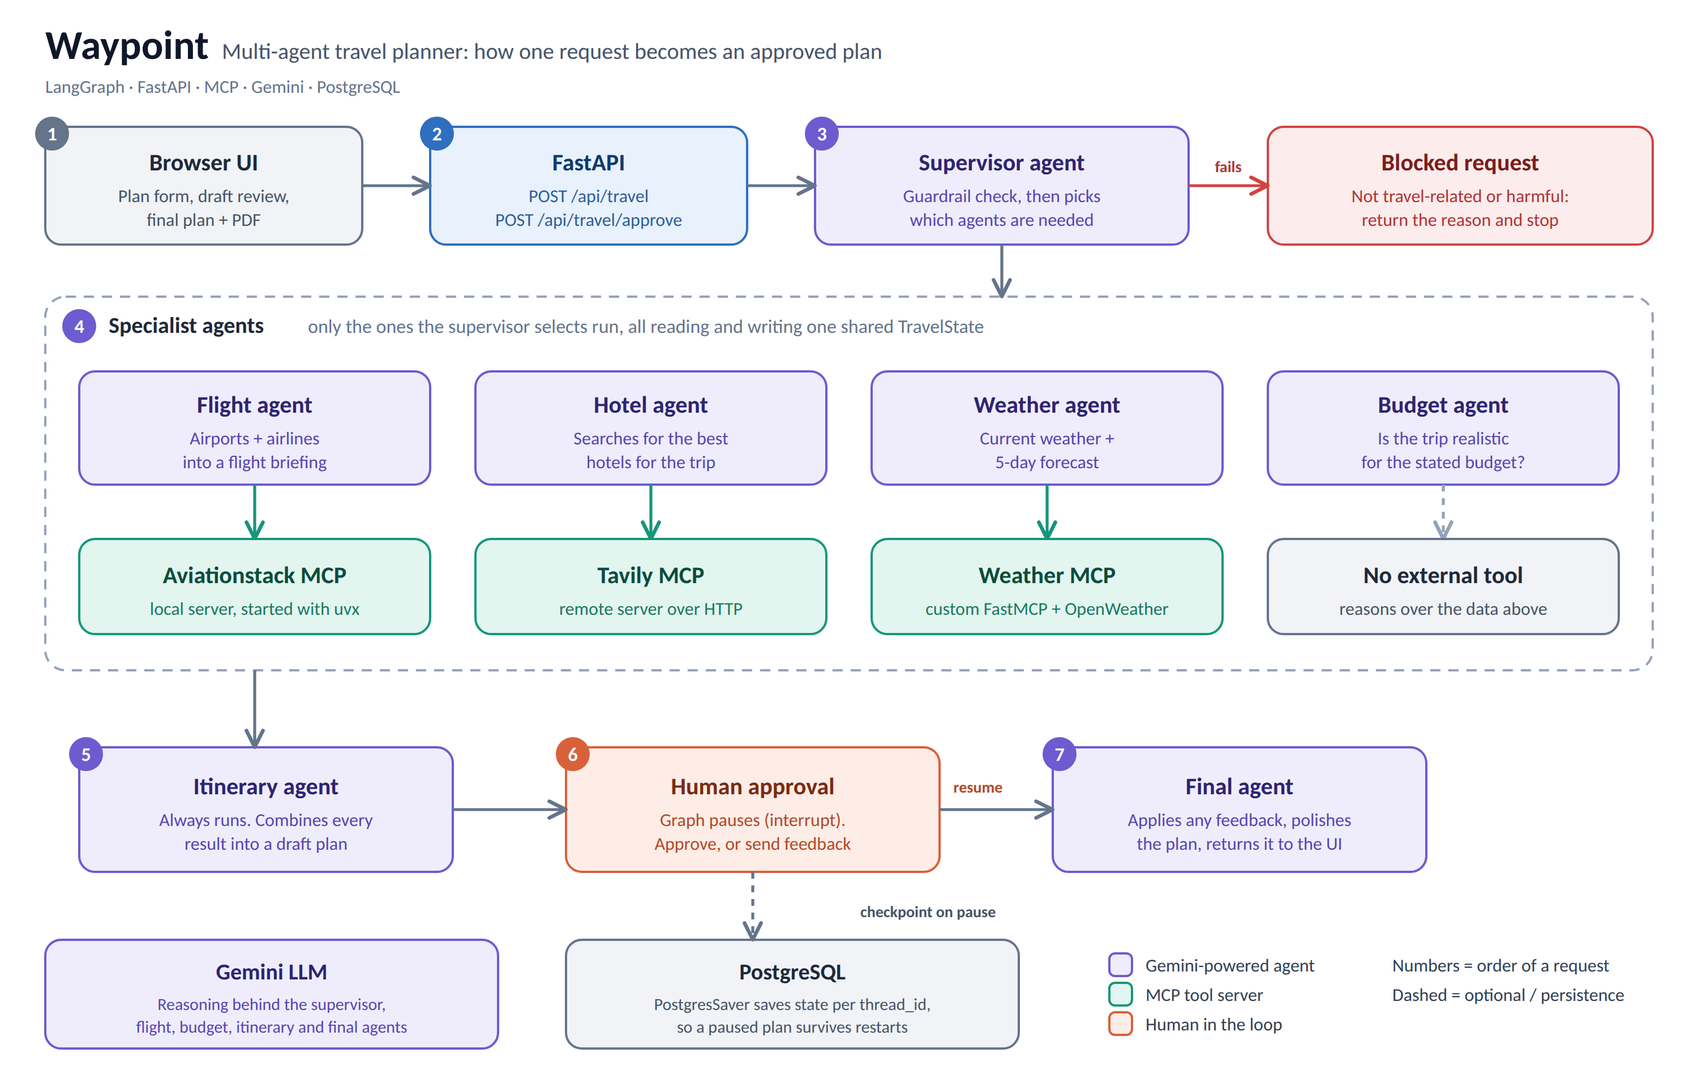
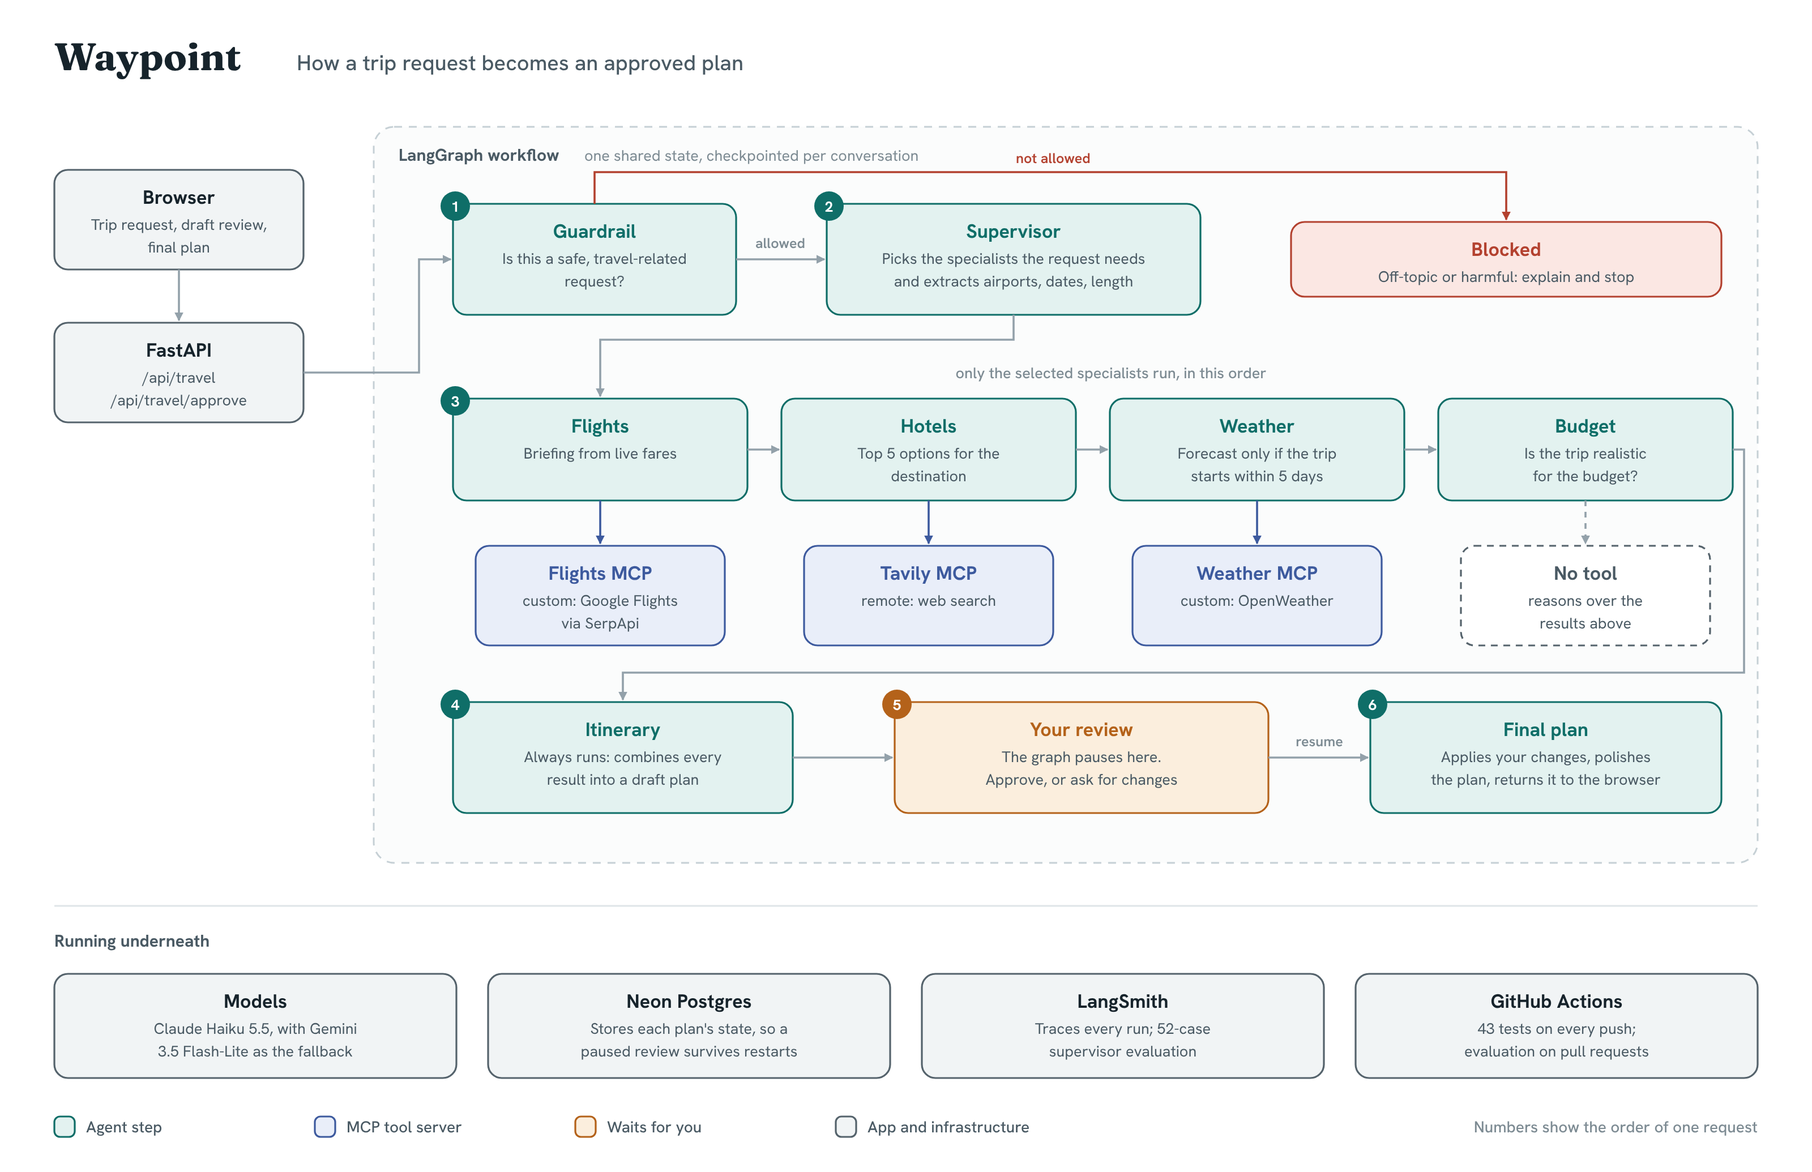
Rewrite the README, redraw the architecture, match the review step to the backend

diff --git a/static/script.js b/static/script.js
@@ -266,7 +266,8 @@ function addRouteStop(route, label, source, state) {
 }
 
 // The agents that ran, then the review and the final plan.
-function showRoute(selectedAgents, stage) {
+// approved is false when the user asked for changes instead of approving.
+function showRoute(selectedAgents, stage, approved) {
     const route = $("agentRoute");
     route.replaceChildren();
 
@@ -279,7 +280,7 @@ function showRoute(selectedAgents, stage) {
         addRouteStop(route, "👤 Your review", "Waiting for you", "current");
         addRouteStop(route, "✨ Final plan", "", "next");
     } else {
-        addRouteStop(route, "👤 Your review", "Approved", "done");
+        addRouteStop(route, "👤 Your review", approved ? "Approved" : "Your changes applied", "done");
         addRouteStop(route, "✨ Final plan", "Ready", "done");
     }
 }
@@ -336,7 +337,7 @@ function showWorkflow(data, stage) {
         $("agentOutputs").classList.add("hidden");
     } else {
         showTripCard(data.trip_constraints);
-        showRoute(data.selected_agents || [], stage);
+        showRoute(data.selected_agents || [], stage, data.approved !== false);
         showAgentOutputs(data);
     }
 

diff --git a/templates/index.html b/templates/index.html
@@ -196,7 +196,7 @@
                     </button>
 
                     <button id="reviseBtn" class="revise-btn" type="button" onclick="submitApproval(false)">
-                        Revise with my changes
+                        Finish with my changes
                     </button>
 
                     <button id="discardBtn" class="discard-btn" type="button" onclick="startNewPlan()">

diff --git a/README.md b/README.md
@@ -1,133 +1,153 @@
-# Waypoint, A Multi Agent Travel Itinerary Generator with LangGraph
+# Waypoint
 
-An open-source AI travel planner that turns a natural-language trip request into a practical, human-approved travel plan, routed through a supervisor agent that decides which specialists (flights, hotels, weather, budget) a request actually needs.
+A multi-agent travel planner. You describe a trip in plain language, a supervisor agent decides which specialists the request needs, they fetch live flight fares, hotels and weather, and you review a draft before the final plan is written.
 
-![Python](https://img.shields.io/badge/python-3.14%2B-blue)
-![FastAPI](https://img.shields.io/badge/backend-FastAPI-009688)
-![LangGraph](https://img.shields.io/badge/orchestration-LangGraph-1c3c3c)
+Built with LangGraph, FastAPI and MCP, with Claude Haiku as the main model and Gemini as the fallback.
 
-## Live Demo
+[![Tests](https://github.com/YashDaft/Waypoint/actions/workflows/tests.yml/badge.svg)](https://github.com/YashDaft/Waypoint/actions/workflows/tests.yml)
+![Python](https://img.shields.io/badge/python-3.14-blue)
+![LangGraph](https://img.shields.io/badge/agents-LangGraph-1c3c3c)
+![FastAPI](https://img.shields.io/badge/API-FastAPI-009688)
 
-🌐 **[waypoint-vm96.onrender.com](https://waypoint-vm96.onrender.com)**
+**Live demo:** [waypoint-vm96.onrender.com](https://waypoint-vm96.onrender.com)
 
-If the app has been idle, the first load can take a moment while the service wakes up.
+It runs on Render's free tier, so the first visit after a quiet spell can take up to a minute while the service wakes up. A full plan usually takes about a minute after that.
 
-## Why this project?
+Try "Plan a 5 day Dubai trip from Delhi starting 20 December with flights, hotels, weather and a budget of ₹1,00,000". The page shows what the planner understood (airports, dates, length, budget), which agents ran, and what each one found, before you approve the draft.
 
-Planning a trip usually means jumping between multiple websites, tools, and spreadsheets. Waypoint brings that into one flow: a supervisor agent reads the request, runs a guardrail check, and decides which specialists are actually relevant —
-
-- a flight-research agent,
-- a hotel-research agent,
-- a weather agent, and/or
-- a budget-feasibility agent,
-
-before an itinerary agent drafts a plan, a human reviews and approves it (or requests changes), and a final agent produces the polished result. All of it is coordinated through a single LangGraph workflow with PostgreSQL-backed checkpointing.
-
-## Features
-
-- 🛡 Guardrails that block non-travel-related or harmful requests before any agent runs
-- 🧠 A supervisor agent that dynamically decides which specialist agents a request actually needs
-- ✈ Flight research via an Aviationstack MCP server
-- 🏨 Hotel suggestions via a Tavily MCP server
-- ⛅ Weather-aware planning — current conditions plus a 5-day forecast — via a custom MCP weather server
-- 💰 Budget feasibility analysis grounded in the flight and hotel data already gathered
-- 📝 A draft itinerary combining every agent's output
-- 🙋 Human-in-the-loop approval — review the draft, approve it, or send feedback for a revision — before the final plan is produced
-- 🌐 FastAPI backend with a simple web interface
-- 💾 Graph-state persistence in PostgreSQL, so a paused (awaiting-approval) plan survives a server restart
-- ⚡ Gemini-powered reasoning throughout
-
-## Architecture
+## How a request is handled
 
 ![Waypoint architecture](waypoint_architecture.png)
 
-A request passes through a guardrail and supervisor first, which decide whether to proceed and which specialist agents to run. Selected specialists each pull live data through their own MCP server. An itinerary agent always runs next and drafts a plan, the graph pauses for human approval, and a final agent applies any feedback and returns the polished result. State is checkpointed to PostgreSQL at the approval pause, so an in-progress plan survives a restart.
+1. **Guardrail.** The model checks that the request is about travel and isn't harmful. Off-topic or harmful requests get a short explanation and nothing else runs.
+2. **Supervisor.** The model picks the specialists the request actually needs and extracts the trip details: origin and destination airport codes, start date, trip length and budget. "Just find me hotels in Goa" runs the hotel agent only.
+3. **Specialists.** The selected agents run in a fixed order, each writing into one shared LangGraph state.
+   - **Flights** calls my flights MCP server, which searches Google Flights through SerpApi and returns real round-trip fares in rupees. If that fails, it falls back to a web search and labels the prices as estimates.
+   - **Hotels** searches the web through Tavily's MCP server, using the destination and travel style.
+   - **Weather** calls my weather MCP server (OpenWeather). The free forecast only covers the next five days, so it's used only when the trip starts within that window. Otherwise the plan describes the usual weather for that month and says so.
+   - **Budget** checks whether the trip fits the stated budget, using only the prices the other agents found.
+4. **Itinerary.** Always runs. It combines everything into a draft, naming real places to visit while marking anything not backed by the data as "verify before you go".
+5. **Your review.** The graph pauses with LangGraph's `interrupt`. The state is saved in Postgres, so the paused plan survives a server restart. You approve the draft, or describe the changes you want.
+6. **Final plan.** The graph resumes, applies your changes if you asked for any, and returns the finished plan, which you can copy or download as a PDF.
 
-## Tech Stack
+## Engineering decisions
 
-- Python 3.14+
-- FastAPI
-- Jinja2 + HTML/CSS/JavaScript frontend
-- LangGraph
-- LangChain
-- Model Context Protocol (MCP) — via `langchain-mcp-adapters`, plus a custom FastMCP server
-- Gemini LLMs
-- PostgreSQL (LangGraph checkpointing)
-- Tavily API
-- AviationStack API
-- OpenWeather API
-- Docker + Render (deployment)
+**Models chosen by measurement.** The app started on Gemini 3.6 Flash. Tracing in LangSmith showed it was both slow and frequently overloaded, so I evaluated three models on the same supervisor test set (below) and timed full trips. Claude Haiku 5.5 matched the best accuracy, was the fastest, and never failed, so it became the main model. Gemini 3.5 Flash-Lite is the fallback, through LangChain's `with_fallbacks`. Because the two come from different providers, an outage at one is covered by the other.
 
-## Project Structure
+**Failures don't take down the whole trip.** Every LLM step is wrapped so that if every model fails, that section says it's unavailable and the rest of the plan still arrives. The flight agent skips the model entirely when it has no data to summarise.
+
+**My own MCP servers.** The flights and weather tools are FastMCP servers in `tools/`, connected with `langchain-mcp-adapters` next to Tavily's hosted MCP server. The flights server keeps the SerpApi key out of error messages, and the app stops HTTP request logs from printing the Tavily key, which is part of its MCP URL.
+
+**Honest output.** Prices are labelled as round-trip totals for one adult, web-search prices as estimates, and forecast data is never presented for dates it doesn't cover. Model output and web content are sanitised with DOMPurify before they're shown in the browser.
+
+**Database that survives idle shutdowns.** State lives in a serverless Neon Postgres database, which closes idle connections. The app uses a `psycopg_pool` connection pool that checks each connection before use and replaces dead ones.
+
+## Evaluation
+
+The supervisor makes the decisions everything else depends on, so it has its own evaluation in LangSmith (`evals/`). There are 52 hand-labelled requests:
+
+- **Standard set (35):** full trips, partial requests, single questions, missing details, tricky dates, Hinglish, typos, off-topic and harmful requests.
+- **Hard set (17):** changes of mind, multi-city trips, weekday dates such as "this Saturday", "a fortnight", origins with no airport, user-supplied airport codes, budgets in dollars, long rambling messages, subtle harmful requests, travel questions that must *not* be blocked, and a prompt injection.
+
+Each case records which agents must run and which must not, the accepted airport codes (Goa has two), and date rules that are worked out on the day the evaluation runs, so "3 March" is always checked against the next 3 March. Scoring is done by code, not by another model.
+
+Results for Claude Haiku 5.5:
+
+| Set | Guardrail | Routing | Airport codes | Dates | Trip length | Model failures |
+|---|---|---|---|---|---|---|
+| Standard (35) | 35/35 | 29/29 | 47/47 | 26/26 | 24/26 | 0 |
+| Hard (17) | 17/17 | 13/13 | 19/21 | 11/11 | 11/11 | 0 |
+
+Results move by one or two cases between runs. The remaining misses are a multi-city trip and a change of mind to a state rather than a city (the design has one destination field), plus a few vague trip lengths.
+
+The evaluation also found two real bugs, each fixed with one line in the supervisor prompt and confirmed by re-running it:
+
+- "a weekend" and "a long weekend" left the trip length empty, which made the flight search fall back to five days.
+- Month-only phrases like "in December" were being turned into a specific date.
+
+**Choosing the model** (first run of the standard set, each model on its own with no fallback):
+
+| Model | Guardrail | Routing | Failed requests | Time per case |
+|---|---|---|---|---|
+| Claude Haiku 5.5 | 35/35 | 29/29 | 0 | 3.9 s |
+| Gemini 3.5 Flash-Lite | 35/35 | 29/29 | 0 | 5.5 s |
+| Gemini 3.6 Flash | 6/6 | 3/3 | 29 of 35 | 73.2 s |
+
+**Speed.** On the same four-agent Dubai request, timed per step in LangSmith over three runs each, the time to the draft went from about **265 seconds** with Gemini 3.6 Flash to about **70 seconds** with Haiku, with no failed model calls.
+
+To run the evaluation yourself:
+
+```bash
+uv run python evals/run_supervisor_eval.py haiku          # standard set
+uv run python evals/run_supervisor_eval.py haiku hard     # hard set
+```
+
+## Tests and CI
+
+`tests/` has 43 pytest tests for the flights MCP tool, the guardrail and supervisor, the flight, hotel, weather and budget agents, the API routes, and the evaluation's own scoring code. The model and every MCP tool are replaced with fakes, so the tests make no network calls, cost nothing and run in a couple of seconds. Several of them lock in bugs that were fixed earlier, such as the return-date calculation and the API key leaking into error messages.
+
+Two GitHub Actions workflows run on GitHub:
+
+- **Tests** (`tests.yml`) runs on every push. `backend.py` connects to Postgres when it's imported, so the workflow starts a throwaway Postgres service for the run.
+- **Evaluation** (`evals.yml`) runs the 52 cases against the real model on pull requests that change the agent code, prompts or evaluation, and on demand. It fails if the guardrail isn't perfect, routing drops below 90%, or any extraction score drops below 75%, and writes the score tables onto the run's summary page.
+
+`main` is protected: changes arrive through pull requests, and a pull request can't be merged until the tests pass. Merging to `main` deploys to Render automatically.
+
+## Tech stack
+
+| Part | Choice |
+|---|---|
+| Agent workflow | LangGraph, with a Postgres checkpointer |
+| Models | Claude Haiku 5.5, Gemini 3.5 Flash-Lite as the fallback |
+| Tools | Custom FastMCP servers for flights (SerpApi, Google Flights) and weather (OpenWeather), Tavily's MCP server for hotels |
+| API and frontend | FastAPI, Jinja template, plain HTML, CSS and JavaScript |
+| Database | Neon serverless Postgres, `psycopg_pool` |
+| Tracing and evaluation | LangSmith |
+| Testing and CI | pytest, GitHub Actions |
+| Hosting | Docker on Render |
+
+## Project structure
 
 ```text
 .
-├── app.py                    # FastAPI app entry point
-├── backend.py                 # LangGraph workflow: supervisor, guardrails, specialist agents, HITL
-├── mcp_client.py                # MCP client setup (Tavily, Aviationstack, weather) + shared Gemini helper
-├── requirements.txt
+├── app.py                    # FastAPI routes and the web page
+├── backend.py                # LangGraph workflow: guardrail, supervisor, agents, review, final plan
+├── mcp_client.py             # MCP client setup and tool helpers
+├── tools/
+│   ├── flights_mcp.py        # Flights MCP server (SerpApi, Google Flights)
+│   └── custom_weather_mcp.py # Weather MCP server (OpenWeather)
+├── templates/index.html
+├── static/                   # script.js, style.css
+├── evals/                    # Test sets, evaluation script, a small debugging helper
+├── tests/                    # pytest tests and the shared fakes
+├── .github/workflows/        # tests.yml, evals.yml
 ├── Dockerfile
-├── .dockerignore
-├── static/                    # Static frontend assets
-├── templates/                  # HTML templates
-└── tools/
-    └── custom_weather_mcp.py    # Custom FastMCP server (OpenWeather current + forecast)
+├── requirements.txt
+└── .env.example
 ```
 
-## Prerequisites
+## Running it locally
 
-Before running the project locally, make sure you have:
-
-- Python 3.14 or newer installed
-- PostgreSQL running and accessible
-- API keys for:
-  - Gemini
-  - Tavily
-  - AviationStack
-  - OpenWeather
-  - LangSmith (optional — only needed if you want tracing)
-
-## Environment Variables
-
-Create a `.env` file in the project root with the following variables (see `.env.example`):
-
-```env
-DATABASE_URL=postgresql://user:password@localhost:5432/travel_db
-GOOGLE_API_KEY=your_gemini_api_key
-TAVILY_API_KEY=your_tavily_api_key
-AVIATIONSTACK_API_KEY=your_aviationstack_api_key
-OPENWEATHER_API_KEY=your_openweather_api_key
-DEFAULT_ORIGIN_DATA="BOM"
-
-# Optional — LangSmith tracing. Set LANGSMITH_TRACING=false to disable
-# tracing entirely and omit the rest of these safely.
-LANGSMITH_TRACING=true
-LANGSMITH_ENDPOINT=https://api.smith.langchain.com
-LANGSMITH_API_KEY=your_langsmith_api_key
-LANGSMITH_PROJECT=Waypoint
-```
-
-## Installation
+You need Python 3.14, [uv](https://docs.astral.sh/uv/), a Postgres database (a free [Neon](https://neon.tech) database works) and API keys for Anthropic, Google Gemini, SerpApi, Tavily and OpenWeather. LangSmith is optional.
 
 ```bash
 uv venv
-source .venv/bin/activate       # macOS/Linux
-.venv\Scripts\Activate.ps1      # Windows PowerShell
 uv pip install -r requirements.txt
 ```
 
-## Running the App
-
-Start the FastAPI server:
+Copy `.env.example` to `.env` and fill in your values. If you use Neon, use the direct connection string (with connection pooling turned off), which is how this project runs.
 
 ```bash
-uv run app.py
+uv run python app.py
 ```
 
-Then open your browser at:
+Then open http://localhost:8000.
 
-```text
-http://127.0.0.1:8000/
+To run the tests:
+
+```bash
+uv pip install pytest
+uv run pytest -v
 ```
 
 ## Running with Docker
@@ -137,60 +157,37 @@ docker build -t waypoint .
 docker run -p 8000:8000 --env-file .env waypoint
 ```
 
-> The Aviationstack MCP server is launched at runtime via `uvx aviationstack-mcp`, so the Dockerfile copies the `uv`/`uvx` binaries from Astral's official image before installing dependencies.
+Write the values in `.env` without quotes, because Docker passes quotes through as part of the value.
 
-## Deployment
+## API
 
-Waypoint is deployed on [Render](https://render.com) as a Docker-based web service.
-
-1. Push this repo to GitHub.
-2. On Render, create a new **Web Service** and connect the repo — Render will detect and build the included `Dockerfile` automatically.
-3. Add the environment variables listed above under the service's **Environment** tab.
-4. Render assigns the app's port at runtime via the `PORT` environment variable — `app.py` already binds to `host="0.0.0.0"` and reads `port=int(os.environ.get("PORT", 8000))` in production rather than a hardcoded host/port.
-
-
-## API Endpoints
-
-- `GET /health` — Health check
-- `POST /api/travel` — Submit a new travel request. Runs the guardrail, the supervisor, whichever specialist agents were selected, and the itinerary agent, then pauses for human approval. Returns a blocked response, or a draft itinerary with `"requires_approval": true`.
-- `POST /api/travel/approve` — Resume a paused plan with `thread_id`, `approved` (bool), and optional `feedback`. Returns the final, polished plan.
-
-Example requests:
+| Method | Path | What it does |
+|---|---|---|
+| `GET` | `/health` | Returns `{"status": "ok"}` |
+| `POST` | `/api/travel` | Starts a plan. Returns either a blocked response or a draft with `requires_approval: true` and a `thread_id`. |
+| `POST` | `/api/travel/approve` | Resumes a paused plan with `thread_id`, `approved` and, if not approved, `feedback`. Returns the final plan. |
 
 ```bash
-curl -X POST http://127.0.0.1:8000/api/travel \
+curl -X POST http://localhost:8000/api/travel \
   -H "Content-Type: application/json" \
-  -d '{"message":"Plan a 3-day trip to Tokyo with a budget of $1200"}'
+  -d '{"message": "Plan a 3 day trip to Jaipur from Delhi with hotels"}'
+
+curl -X POST http://localhost:8000/api/travel/approve \
+  -H "Content-Type: application/json" \
+  -d '{"thread_id": "user_...", "approved": true, "feedback": ""}'
 ```
 
-```bash
-curl -X POST http://127.0.0.1:8000/api/travel/approve \
-  -H "Content-Type: application/json" \
-  -d '{"thread_id":"user_xxxxxxxx", "approved": true, "feedback": ""}'
-```
+Responses also include `selected_agents`, `trip_constraints`, `supervisor_reasoning` and each agent's output, which is what the page uses to show the route and the agent panels.
 
-## How the Workflow Works
+## Known limitations
 
-1. The user submits a travel request.
-2. A guardrail check confirms the request is travel-related and not harmful; if not, the workflow stops and returns a reason.
-3. A supervisor agent decides which specialist agents the request actually needs — flight, hotel, weather, and/or budget — and extracts trip details (destination, dates, budget, and so on) from the request.
-4. Only the selected specialist agents run, each pulling live data through its own MCP server (the budget agent reasons over the others' results instead of calling an external tool).
-5. An itinerary agent always runs next, combining every result into a draft plan.
-6. The workflow pauses for human approval. The user can approve the draft or send feedback for a revision.
-7. A final agent applies any feedback and produces the polished travel plan.
-
-## Limitations
-
-- Live ticket pricing depends on AviationStack's data availability and may not always be returned — the final response explicitly notes this when prices are missing rather than inventing figures.
-- Hotel suggestions come from a Tavily web search rather than a dedicated hotel-booking API, so availability and live pricing aren't guaranteed.
-- Feedback on the draft itinerary is applied once by the final agent — there's no second approval round after a revision.
-- Graph state is scoped per `thread_id` (via PostgreSQL checkpointing); there's currently no user-facing way to browse or delete past runs from the UI.
-
+- One destination per trip. Multi-city requests are reduced to a single destination.
+- Flight prices are for one adult. Hotel results come from web search, so they have no live availability or exact prices.
+- Asking for changes is a single round: the final agent applies your feedback and finishes, without showing a second draft.
+- Each MCP tool call opens a new session, which for the two local servers means starting a new process. On Render's small free instance this adds several seconds per call, and it's the largest remaining cost after the model calls.
+- The plan is returned in one piece when it's done; the steps aren't streamed to the page while they run.
+- There are no user accounts, so past plans can't be browsed from the page.
 
 ## License
 
-This project is licensed under the Apache-2.0 license — see [LICENSE](LICENSE) for details.
-
-## Acknowledgments
-
-This project is built with the help of modern LLM tooling — LangGraph, the Model Context Protocol, and Gemini — combined with real-world travel APIs, and it is intended as a practical example of multi-agent orchestration with a human-in-the-loop step.
+Apache 2.0. See [LICENSE](LICENSE).
